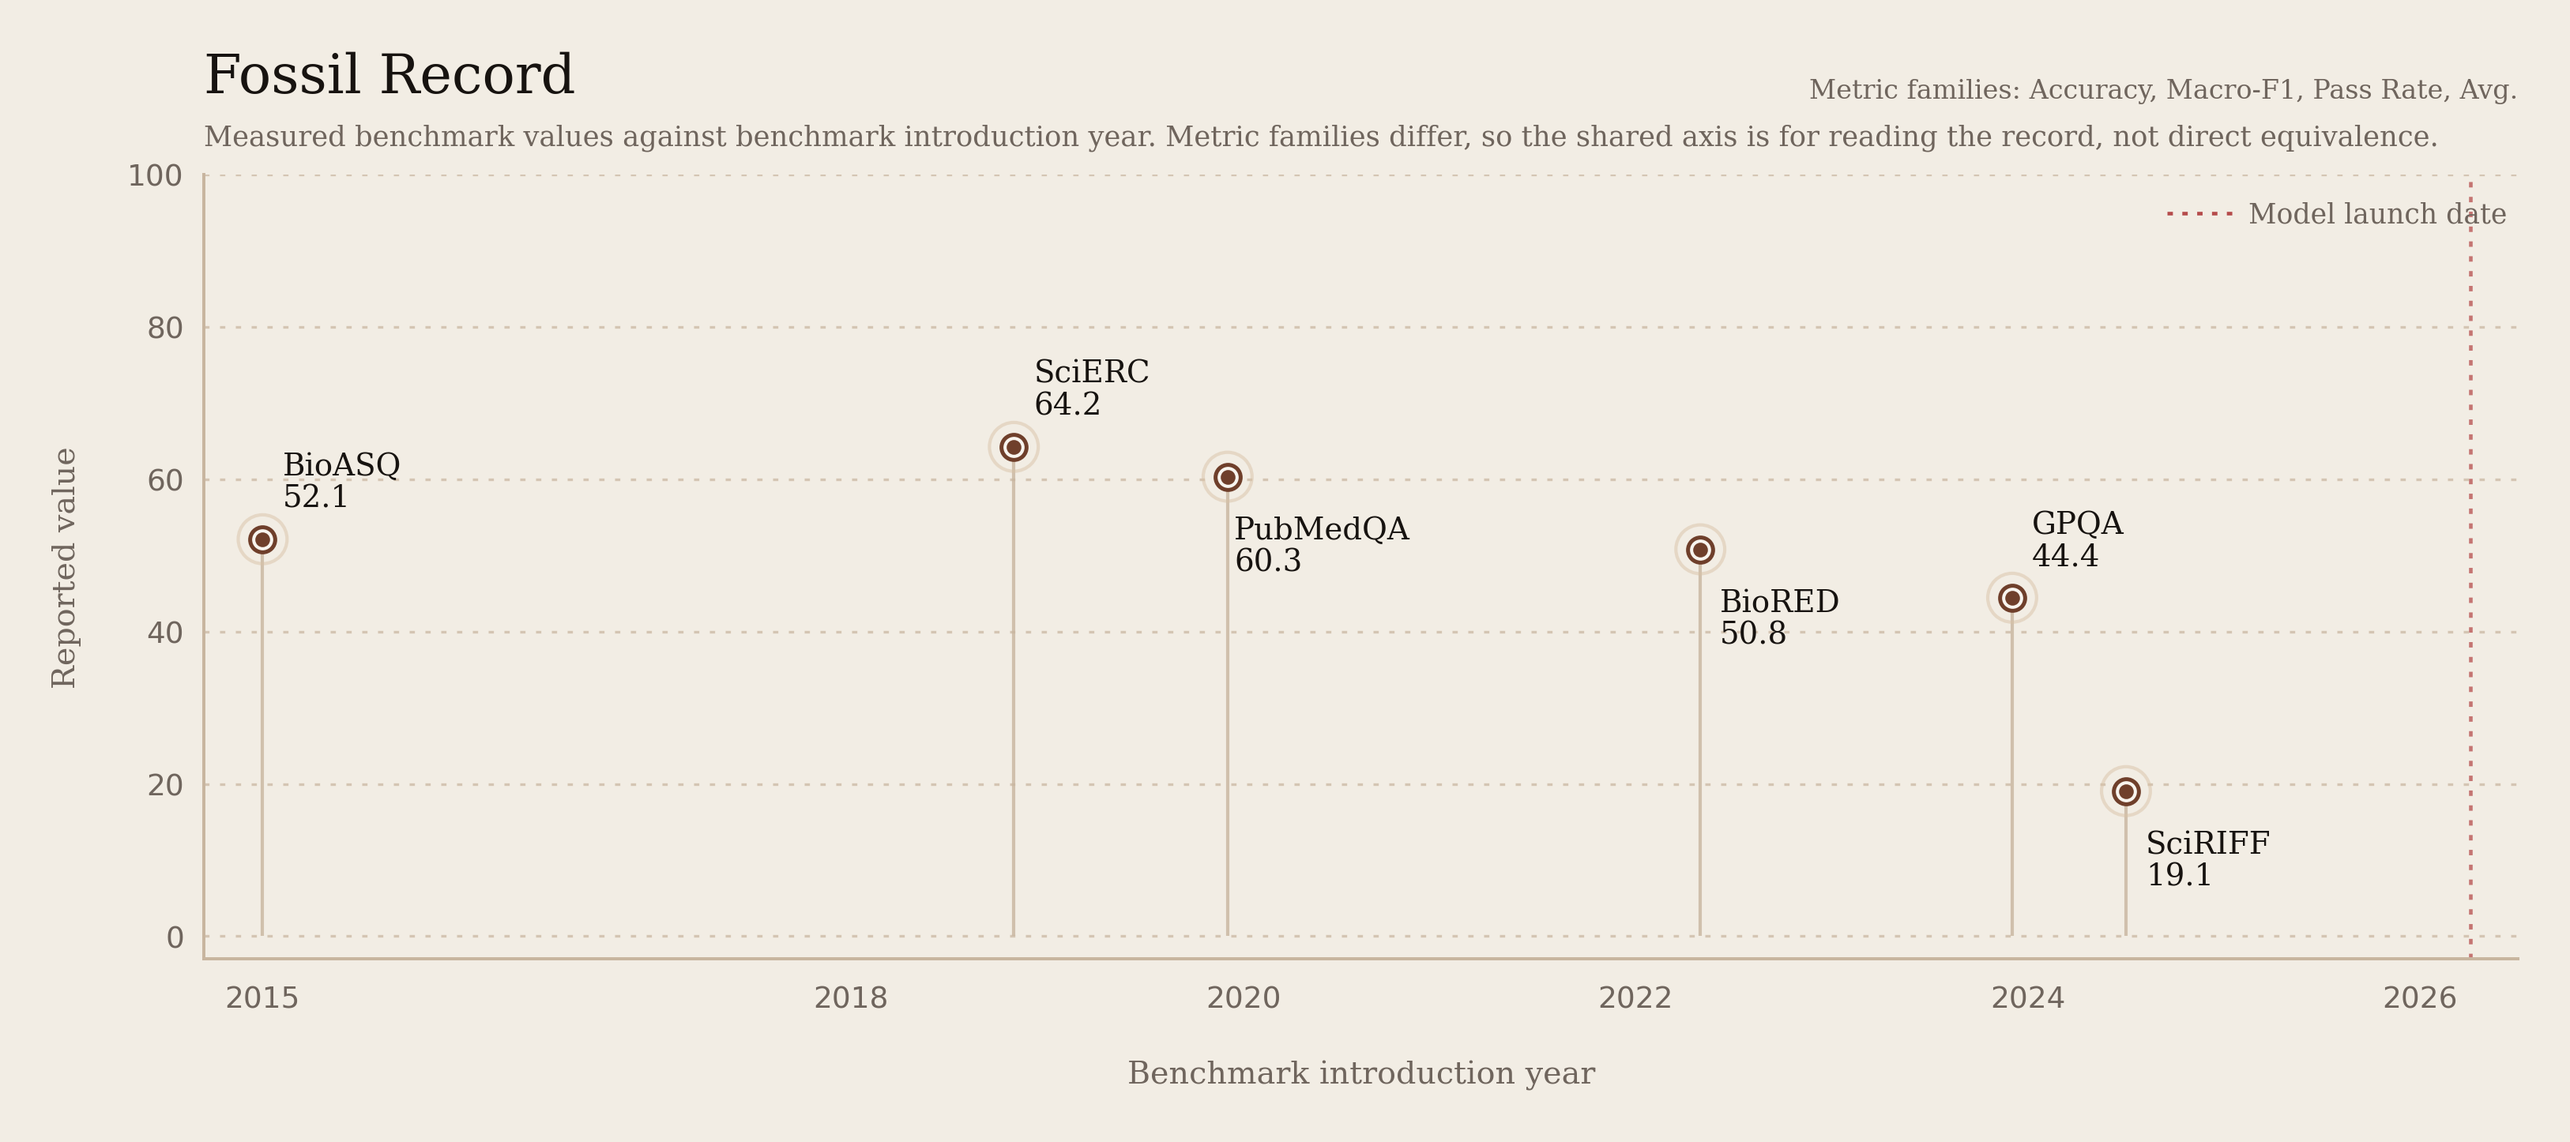
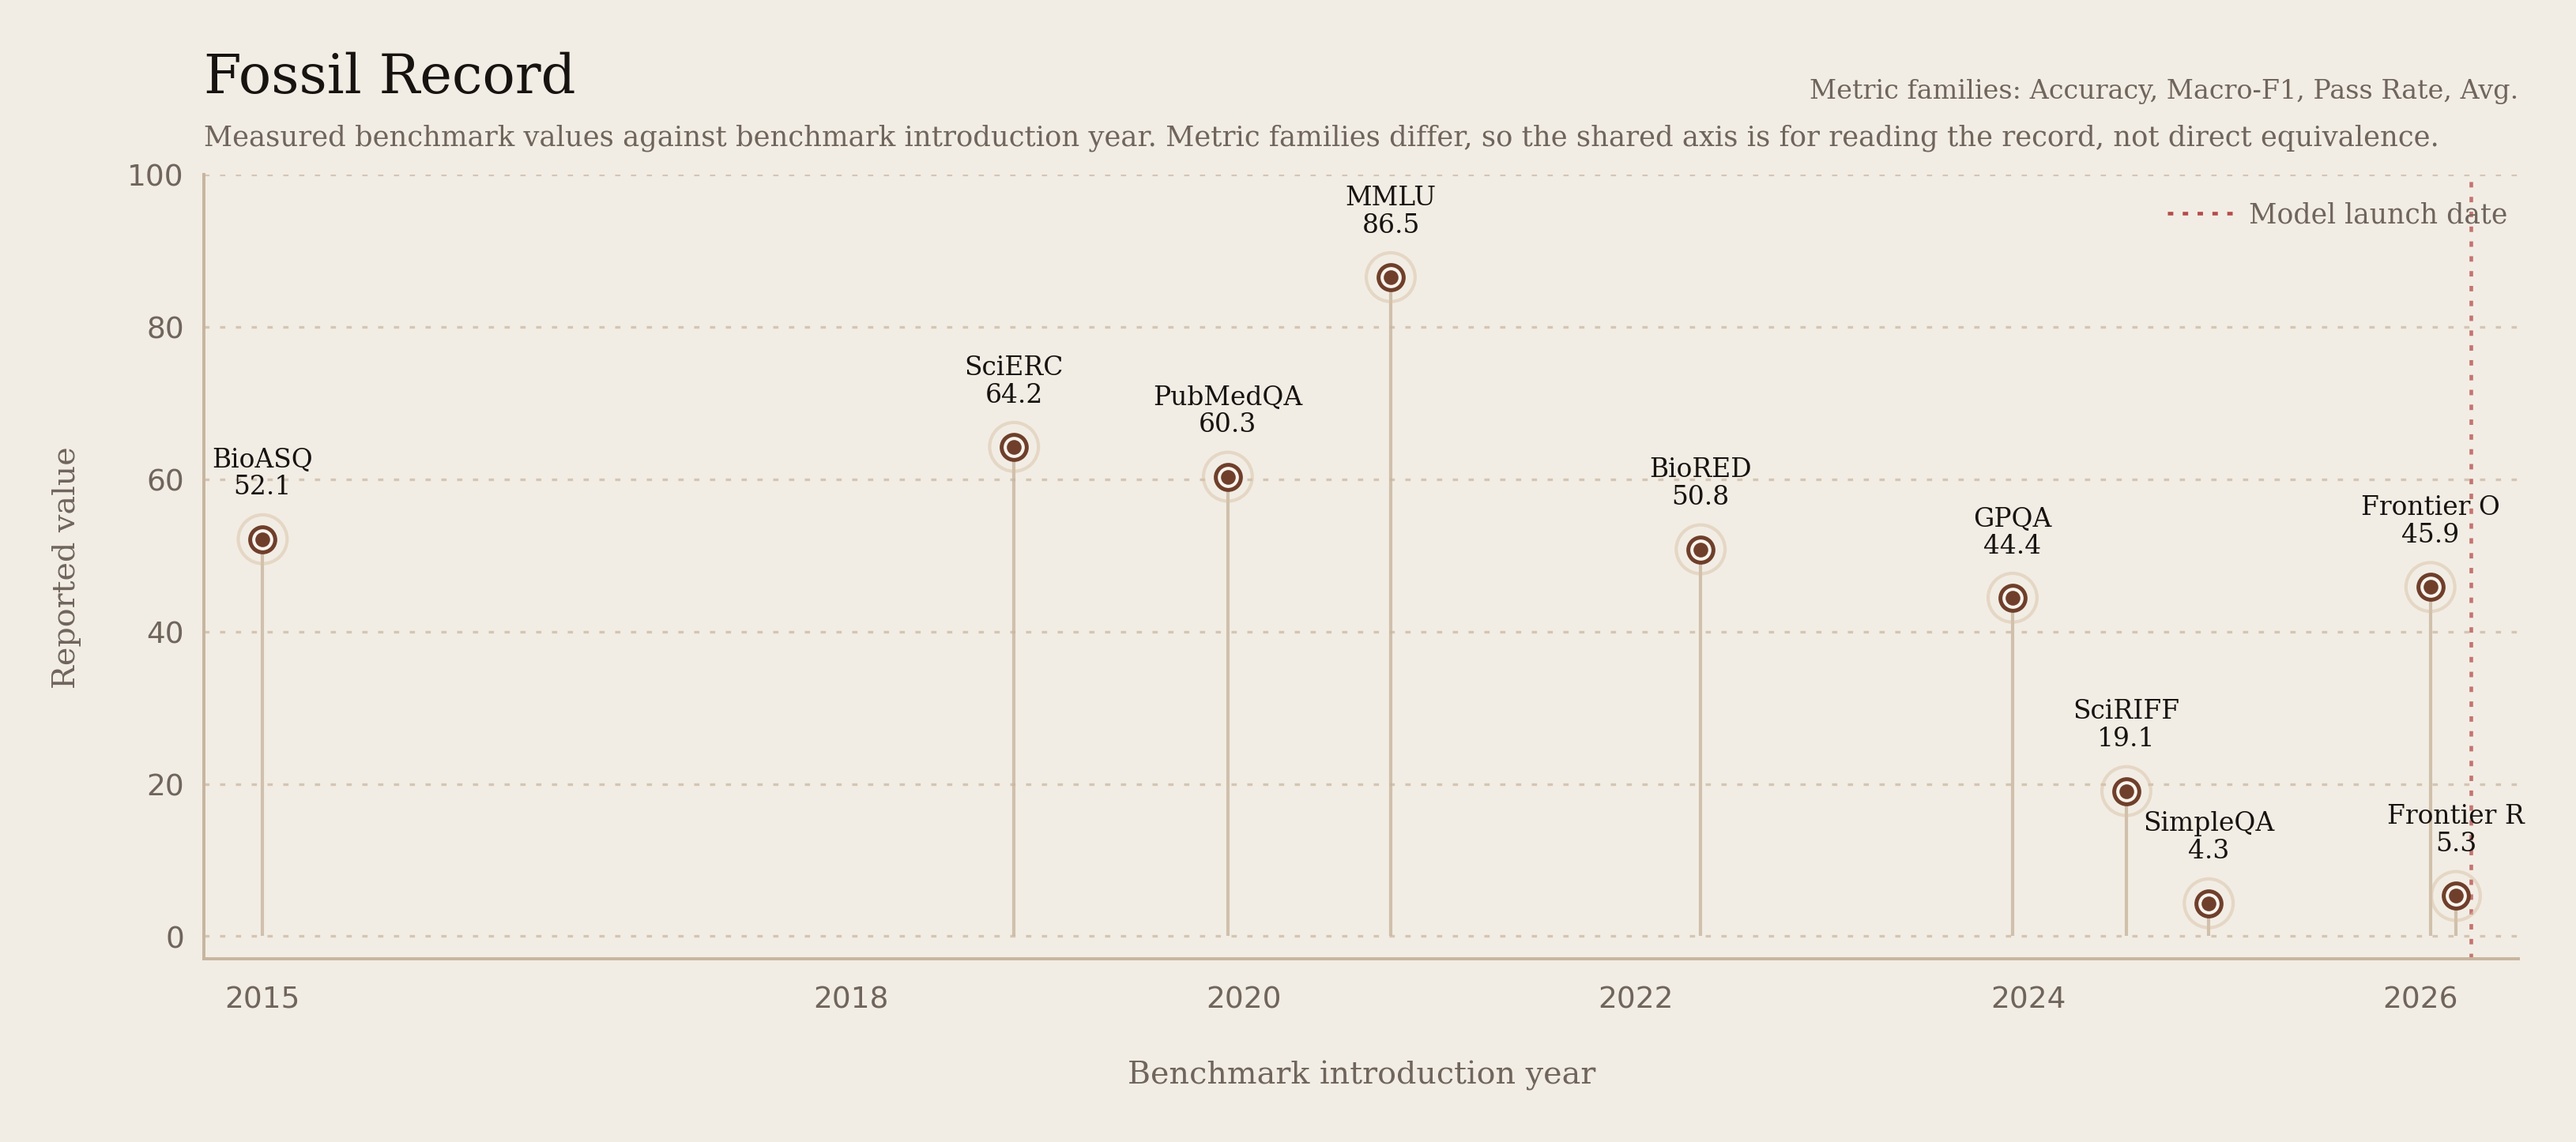
scienceeval: refresh Fossils-M model sheets
- update Gemma 4 31B IT with FrontierScience, MMLU, and
  SimpleQA result coverage from the uploaded Fossils-M bundle
- center fossil plot labels above their dots with smaller type
  across GPT-4o, gpt-oss-20b, and Gemma plot generators
- document the benchmark dataset download layout, including
  BioRED from NCBI and FrontierScience cache seeding

diff --git a/scripts/fossil-m/generate_model_fossil_sheet.py b/scripts/fossil-m/generate_model_fossil_sheet.py
@@ -238,34 +238,23 @@ GPT4O_VALUES = {
 
 
 # label placement constants
-DEFAULT_LABEL_OFFSETS = {
-    "bioasq": (6, 8, "bottom"),
-    "scierc": (6, 8, "bottom"),
-    "pubmedqa": (2, -12, "top"),
-    "mmlu": (6, 8, "bottom"),
-    "biored": (6, -12, "top"),
-    "gpqa": (6, 8, "bottom"),
-    "sciriff": (6, -12, "top"),
-    "simpleqa": (6, 8, "bottom"),
-    "frontierscience": (6, 8, "bottom"),
-    "frontierscience_research": (6, -10, "top"),
-}
-
-GPT_OSS_LABEL_OFFSETS = {
-    "bioasq": (6, 8, "bottom"),
-    "scierc": (6, 8, "bottom"),
-    "pubmedqa": (6, 8, "bottom"),
-    "biored": (6, -12, "top"),
-    "gpqa": (6, 8, "bottom"),
-    "sciriff": (6, 8, "bottom"),
-    "frontierscience": (6, -12, "top"),
-    "frontierscience_research": (6, 8, "bottom"),
+ABOVE_DOT_LABEL_OFFSETS = {
+    "bioasq": (0, 12, "bottom"),
+    "scierc": (0, 12, "bottom"),
+    "pubmedqa": (0, 12, "bottom"),
+    "mmlu": (0, 12, "bottom"),
+    "biored": (0, 12, "bottom"),
+    "gpqa": (0, 12, "bottom"),
+    "sciriff": (0, 12, "bottom"),
+    "simpleqa": (0, 12, "bottom"),
+    "frontierscience": (0, 12, "bottom"),
+    "frontierscience_research": (0, 12, "bottom"),
 }
 
 MODEL_LABEL_OFFSETS = {
-    "gpt-4o": DEFAULT_LABEL_OFFSETS,
-    "gpt-oss-20b": GPT_OSS_LABEL_OFFSETS,
-    "gemma-4-31b-it": DEFAULT_LABEL_OFFSETS,
+    "gpt-4o": ABOVE_DOT_LABEL_OFFSETS,
+    "gpt-oss-20b": ABOVE_DOT_LABEL_OFFSETS,
+    "gemma-4-31b-it": ABOVE_DOT_LABEL_OFFSETS,
 }
 
 
@@ -854,7 +843,7 @@ def render_plot(model_id: str, model: dict, output_dir: Path) -> None:
     None
     """
     points = [point for point in model["plot_points"] if point.get("value") is not None]
-    offsets = MODEL_LABEL_OFFSETS.get(model_id, DEFAULT_LABEL_OFFSETS)
+    offsets = MODEL_LABEL_OFFSETS.get(model_id, ABOVE_DOT_LABEL_OFFSETS)
 
     fig, ax = plt.subplots(figsize=(12.6, 4.3), dpi=300)
     fig.patch.set_facecolor(PAPER)
@@ -920,7 +909,7 @@ def draw_launch_line(ax, launch_year: float) -> None:
 # helper function to draw all measured points
 def draw_points(ax, points: list[dict], offsets: dict[str, tuple[int, int, str]]) -> None:
     for point in points:
-        offset_x, offset_y, vertical_align = offsets.get(point["id"], (6, 8, "bottom"))
+        offset_x, offset_y, vertical_align = offsets.get(point["id"], (0, 12, "bottom"))
         value = point["value"]
 
         ax.vlines(
@@ -963,10 +952,10 @@ def draw_points(ax, points: list[dict], offsets: dict[str, tuple[int, int, str]]
             xy=(point["year"], value),
             xytext=(offset_x, offset_y),
             textcoords="offset points",
-            ha="left",
+            ha="center",
             va=vertical_align,
             color=INK,
-            fontsize=9.3,
+            fontsize=7.9,
             linespacing=1.12,
             fontfamily="DejaVu Serif",
             zorder=5,

diff --git a/scripts/generate_gpt4o_fossil_imprint.py b/scripts/generate_gpt4o_fossil_imprint.py
@@ -26,71 +26,71 @@ DATA = [
         "name": "BioASQ",
         "year": 2015.00,
         "value": 86.19,
-        "offset": (6, 8),
+        "offset": (0, 12),
         "va": "bottom",
     },
     {
         "name": "SciERC",
         "year": 2018.83,
         "value": 70.35,
-        "offset": (6, 8),
+        "offset": (0, 12),
         "va": "bottom",
     },
     {
         "name": "PubMedQA",
         "year": 2019.92,
         "value": 53.65,
-        "offset": (2, -12),
-        "va": "top",
+        "offset": (0, 12),
+        "va": "bottom",
     },
     {
         "name": "MMLU",
         "year": 2020.75,
         "value": 85.70,
-        "offset": (6, 8),
+        "offset": (0, 12),
         "va": "bottom",
     },
     {
         "name": "BioRED",
         "year": 2022.33,
         "value": 72.45,
-        "offset": (6, -12),
-        "va": "top",
+        "offset": (0, 12),
+        "va": "bottom",
     },
     {
         "name": "GPQA",
         "year": 2023.92,
         "value": 53.60,
-        "offset": (6, 8),
+        "offset": (0, 12),
         "va": "bottom",
     },
     {
         "name": "SciRIFF",
         "year": 2024.50,
         "value": 60.40,
-        "offset": (6, -12),
-        "va": "top",
+        "offset": (0, 12),
+        "va": "bottom",
     },
     {
         "name": "SimpleQA",
         "year": 2024.92,
         "value": 38.20,
-        "offset": (6, 8),
+        "offset": (0, 12),
         "va": "bottom",
     },
     {
         "name": "Frontier O",
         "year": 2026.05,
         "value": 12.30,
-        "offset": (6, 8),
+        "offset": (0, 12),
         "va": "bottom",
     },
     {
         "name": "Frontier R",
         "year": 2026.18,
         "value": 0.40,
-        "offset": (6, -10),
-        "va": "top",
+        "offset": (0, 12),
+        "va": "bottom",
     },
 ]
 
@@ -181,10 +181,10 @@ def render():
             xy=(point["year"], point["value"]),
             xytext=point["offset"],
             textcoords="offset points",
-            ha="left",
+            ha="center",
             va=point["va"],
             color=INK,
-            fontsize=9.3,
+            fontsize=7.9,
             linespacing=1.12,
             fontfamily="DejaVu Serif",
             zorder=5,

diff --git a/scripts/fossil-m/README.md b/scripts/fossil-m/README.md
@@ -46,6 +46,44 @@ Check that the OpenAI-compatible endpoint is alive:
 curl http://127.0.0.1:30000/v1/models
 ```
 
+## Download benchmark datasets
+
+These commands recreate the local dataset layout read by the Fossils-M
+evaluators. GPQA is gated, so accept the terms on Hugging Face and run
+`hf auth login` first.
+
+```shell
+mkdir -p data/biored/extracted
+
+hf download Idavidrein/gpqa \
+  gpqa_diamond.csv gpqa_experts.csv gpqa_extended.csv gpqa_main.csv license.txt \
+  --repo-type dataset \
+  --local-dir data/gpqa/extracted/dataset
+hf download kroshan/BioASQ --repo-type dataset --local-dir data/bioasq
+hf download qiaojin/PubMedQA --repo-type dataset --local-dir data/pubmedqa
+hf download nsusemiehl/SciERC --repo-type dataset --local-dir data/scierc
+hf download allenai/SciRIFF --repo-type dataset --local-dir data/sciriff
+hf download cais/mmlu --repo-type dataset --include "all/*" --local-dir data/mmlu
+hf download basicv8vc/SimpleQA --repo-type dataset --local-dir data/simpleqa
+
+curl -L -o data/biored/BIORED.zip \
+  https://ftp.ncbi.nlm.nih.gov/pub/lu/BioRED/BIORED.zip
+curl -L -o data/biored/BioRED_Annotation_Guideline.pdf \
+  https://ftp.ncbi.nlm.nih.gov/pub/lu/BioRED/BioRED_Annotation_Guideline.pdf
+curl -L -o data/biored/README.txt \
+  https://ftp.ncbi.nlm.nih.gov/pub/lu/BioRED/README.txt
+unzip -o data/biored/BIORED.zip -d data/biored/extracted
+```
+
+FrontierScience is downloaded automatically into `.cache/frontierscience` by
+`scripts/evaluate_frontierscience.py`. To pre-seed that cache:
+
+```shell
+hf download openai/frontierscience \
+  --repo-type dataset \
+  --local-dir .cache/frontierscience
+```
+
 ## Smoke-test the suite
 
 Use a small limit first. FrontierScience requires a judge model for scored runs.
